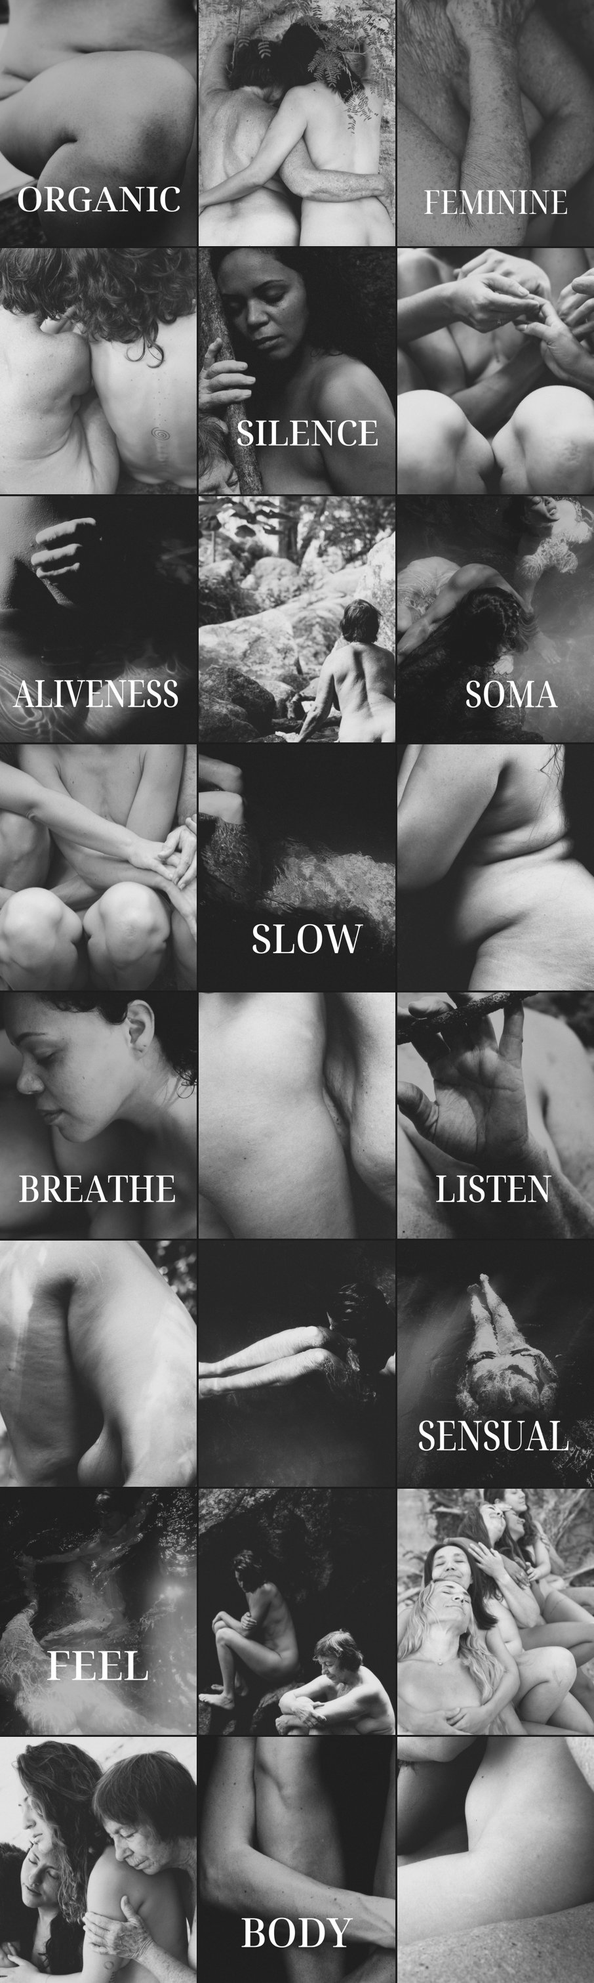
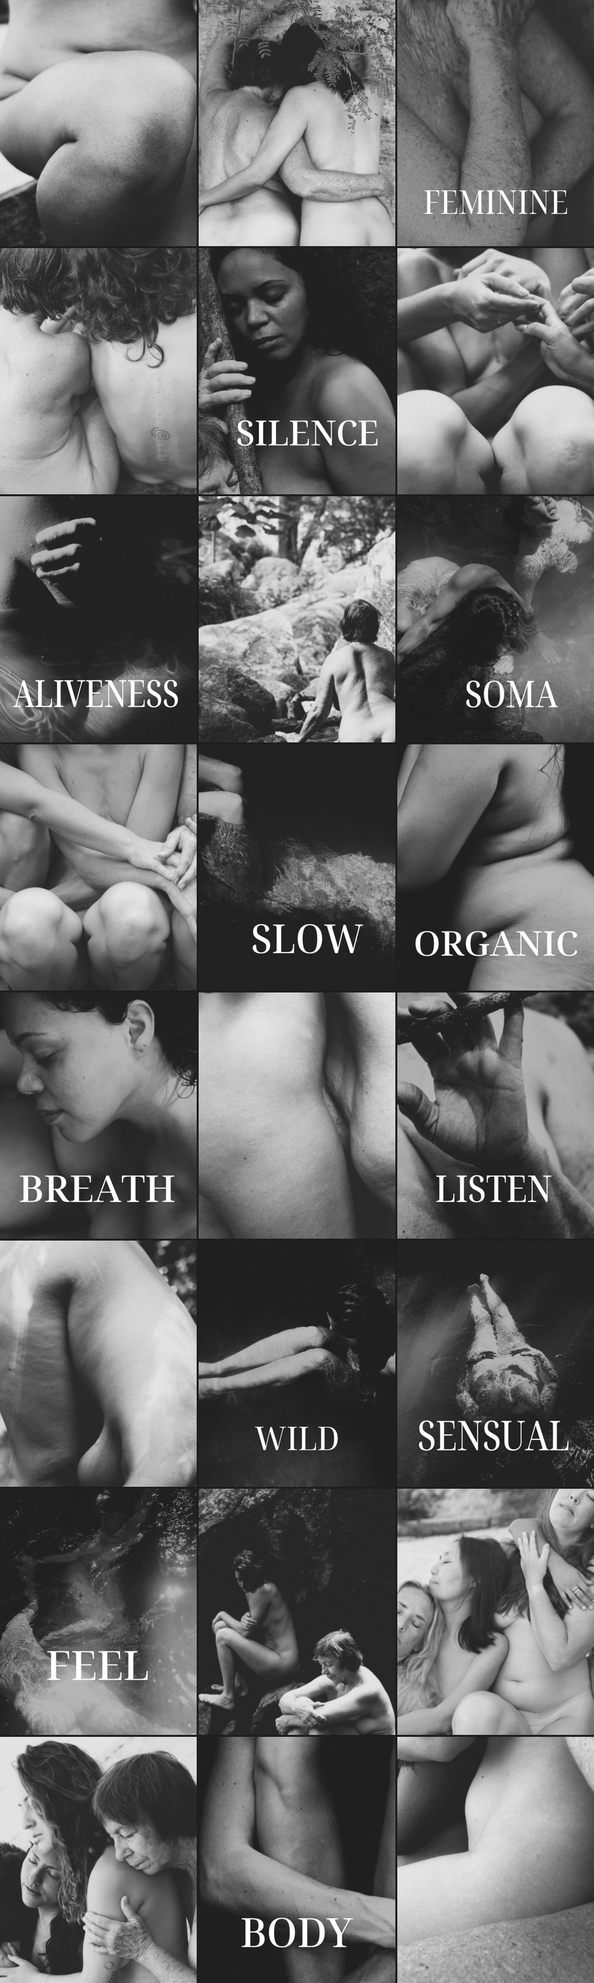
Review round 2: swaps, BREATH, WILD word, bird caption, side-angle tile 21

diff --git a/grid-restart-review/index.html b/grid-restart-review/index.html
@@ -75,7 +75,7 @@ textarea::placeholder{color:var(--muted)}
   <img src="img/grid.jpg" alt="The finished 24-image grid, 3 images across">
   <div class="txt">
     <h2>The whole grid</h2>
-    <p>Your layout, tile for tile: 11 posts carry one of your words (ORGANIC and FEMININE are the two to pin at the top), the other 13 are photos. Every caption is taken word for word from your own pages and posts.</p>
+    <p>Your layout, tile for tile: 12 posts carry one of your words (ORGANIC and FEMININE are the two to pin at the top), the other 12 are photos. Every caption is taken word for word from your own pages and posts.</p>
     <p>When you are done, press <b>Send on WhatsApp</b>, or <b>Copy verdict</b> to paste it anywhere.</p>
   </div>
 </div>
@@ -89,7 +89,7 @@ textarea::placeholder{color:var(--muted)}
 </div>
 </div>
 <script>
-const ITEMS = [{"n": 1, "src": "img/t01.jpg", "word": "ORGANIC", "cap": "The Organic Feminine Principle is the compass that guides us towards our natural embodiment, beyond the confines of the outdated programming that has infiltrated our bodies, nervous systems, and the collective female psyche.\n\nThis principle moves us beyond narrow, restrictive notions of femininity to reclaim the wild, natural tapestry that is life in a woman's body.\n\nAt its heart, the Organic Feminine Principle is about embracing our innate somatic feminine intelligence. It encourages a rekindling of connection and trust in our cyclical nature, recognizing the messages of our nervous systems, and valuing our sensations and emotions as crucial sources of guidance and information. It invites us to celebrate our sensuality as a profound, life-affirming force that connects us deeply with ourselves, our community, and the world around us.\n\nRegardless of the stage of life you are in as women, the organic feminine principle invites you to return to a natural, embodied and truthful way of living."}, {"n": 2, "src": "img/t02.jpg", "word": null, "cap": "Being free, embodied, and fully alive in our bodies as women is our birthright. But countless women around the world remain deeply oppressed, their voices silenced and their freedom denied. As women with access to greater freedoms, we hold a profound opportunity - and responsibility - to harness the liberties we have, breaking through the unconscious shackles we often don’t realize we carry. When we do this, we restore our frequency and being to their rightful, embodied, and liberated state.\n\nThis journey is not merely for our pleasure, although pleasure is essential and sacred. It is also for the women who cannot yet claim this freedom. Every step we take toward embodying our wholeness sends ripples outward, a quiet revolution of sovereignty that transcends borders and boundaries. We rise not just for ourselves, but for every woman still waiting for the chance to rise."}, {"n": 3, "src": "img/t03.jpg", "word": "FEMININE", "cap": "The Patriarchal Feminine manages herself.\nThe Organic Feminine inhabits herself.\n\nManaging myself looks like:\nholding my breath to be chosen,\nediting my truth to stay safe,\nmonitoring my body as something to control.\n\nIt’s not a flaw.\nIt’s an adaptation.\n\nInhabiting myself feels like:\narriving inside my breath,\ntrusting sensation,\nletting my yes and no come from the body.\n\nNo performance.\nNo strategy.\n\nThe shift from managing to inhabiting\nis not a mindset change\nit’s a somatic return.\n\nFrom control to presence.\nFrom survival to aliveness.\nFrom being handled\nto being home in myself."}, {"n": 4, "src": "img/t04.jpg", "word": null, "cap": "There really is no greater teacher in our lives than relationship to show us the truth.\n\nBut when we are there, in the thick of it, no matter how many years of personal work you've done... when we meet ourself in that deep, unbearable pain of vulnerability... what remains when the ideals of our perfect, conscious, integrated identity falls away?\n\nDirect, present moment relating from somatic intelligence is the ground of all relating. Beyond narratives and identity. Beyond structures and forms."}, {"n": 5, "src": "img/t05.jpg", "word": "SILENCE", "cap": "The body’s contraction when we don’t allow ourselves to reveal who we are, out of fear of rejection or of being judged as too much. So we stay quiet, calm, agreeable and nice. We swallow our words, and our bodies are left full with what is unsaid.\n\nSome days we name the grief beneath our rage.\nOther days we laugh through the awkwardness of old patterns.\nAnd sometimes, we simply breathe together in silence."}, {"n": 6, "src": "img/t06.jpg", "word": null, "cap": "As women, many of us often don't feel safe to just be ourselves. We were programmed & socialised to please others & live by unattainable standards of perfection & \"femininity\". We were taught to fixate on what we do, how we look, how successful, youthful & sexy we are, to affirm our worth."}, {"n": 7, "src": "img/t07.jpg", "word": "ALIVENESS", "cap": "You’ve been going through the motions and you’re exhausted by the distance between who you perform and who you actually are.\n\nYou long to feel alive in your body again, not just healthy, not just functional. Sensorially, genuinely alive.\n\nShadow work isn’t about fixing ourselves. It’s about remembering ourselves.\nIt’s the path from fragmentation to wholeness.\nFrom performance to presence.\nFrom numbness to feeling deeply, fully, vividly alive.\n\nWhat I’ve discovered, through fifteen years of this work, is that the body doesn’t forget. Beneath the conditioning, beneath the performance, beneath the exhaustion — the sensuous self is still there. Patient. Alive. Ready."}, {"n": 8, "src": "img/t08.jpg", "word": null, "cap": "When we make the choice to really sink into the world and wisdom of the body, we can learn the tools to be safe enough to simply feel, and we can invite our shadow back into our space with open arms.\n\nWe can lean in and submerge into our unconscious material in a way that allows the hidden, denied and exiled parts of ourselves to come back into the forefront of our expression. Rather than analysing, observing, or understanding them, we give them a tangible place to live in: inside our own skin.\n\nVery often, inside the parts that were pushed away, or that we learnt were not OK to reveal to ourselves or others, is where our real, soul-based expression comes alive.\n\nWhere our deepest calling for life, creativity, connection and purpose live."}, {"n": 9, "src": "img/t09.jpg", "word": "SOMA", "cap": "Our Western, patriarchal and colonial value systems have conditioned us to look outside of ourselves for authority, education, connection, pleasure, purpose and meaning.\n\nThis programming has exalted the mind, intellect and external orientation over the intelligence of the body and our own internal relationship with our visceral, powerful, sensual, heartful selves. We have normalised the constant and dissatisfying reaching and searching for fullness, nourishment and connection outside of our own skin.\n\nTo meet ourselves through our bodies and to live our lives in harmony with their ancient knowing, is to come into deep relationship with our innate WHOLENESS. This in itself is an act of resistance, as we subvert the cultural narrative of needing to consume more, do more and be more, and instead rest back into that which we already have and are."}, {"n": 10, "src": "img/t10.jpg", "word": null, "cap": "How can we reshape our approach to leadership, moving beyond the striving, the constant push to be better, the incessant honing of skills in the quest to become the best version of ourselves?\n\nInstead, what if we re-center our value system around leadership with the profound understanding that who we are, rather than what we do, is the true leader.\n\nBy anchoring ourselves in pleasure, we become the deeply attuned leaders who walk the paths that we inspire our communities to follow. Because we know that the way we lead mirrors the way we live."}, {"n": 11, "src": "img/t11.jpg", "word": "SLOW", "cap": "Within our somatics training, we prioritize the power of slowing down. Through this deliberate deceleration, we recalibrate our nervous system and cultivate a profound sense of bodily safety. Central to this is the practice of titration, which fine-tunes our nervous system's responses, ensuring a gentle and measured emotional journey. Where trauma can be overwhelming, titration emerges as its soothing counterbalance. More than just a technique, titration supports a broader paradigm shift, inviting a renewed approach to living, being, relating, and coaching. In contrast to our fast-paced culture, it places emphasis on time, rest, and presence in all life's facets, suggesting that slowing down is not just beneficial but essential. By embracing this philosophy as a lifestyle we start to feel ourselves, others & life in a new way- A way that feels deeply natural and connected."}, {"n": 12, "src": "img/t12.jpg", "word": null, "cap": "Although we can become aware with the conscious mind of how our psyche is operating, unless the material is felt, welcomed and breathed into, nothing will shift. Until we feel our sensations and emotions, be with them, communicate with them, and stabilise our nervous system back into a sense of safety, we will not be able to relate to and make meaning of our experience in an embodied way. When we don’t listen to the body, we continue to live in separation from its wisdom. This fracture manifests not only in our relationship with ourselves, but with others, the earth and life itself.\n\nModern-day psychological approaches such as CBT are hyper-oriented to a mind-based understanding of our psychology and trauma. But until we merge the body/mind as one function; one operating system, I believe that the path towards truly integrating our pain, pleasure and potential will be stuck in the same old loops."}, {"n": 13, "src": "img/t13.jpg", "word": "BREATHE", "cap": "Sensuality is the capacity to feel, to be present in your skin, alive to texture and temperature, awake to your own breath. And it belongs to ALL women :\n\naging women\nlarge women\ndisabled women\ntired women\ngrieving women\nunconventional women\nwomen outside beauty standards\n\nWomen at any stage of their life.\n\nThis capacity was yours before anyone told you what your body should look like. It's yours still."}, {"n": 14, "src": "img/t14.jpg", "word": null, "cap": "Questions to come back to your body:\n\nWhere is my breath and how is my breath, \n\nWhat is my body posture / expression communicating, \n\nWhat emotion is here, what images arise, what thoughts are here, what assumptions am I having right now?\n\nWhat do I feel is true, what can I reveal, even if it breaks my self image to pieces?"}, {"n": 15, "src": "img/t15.jpg", "word": "LISTEN", "cap": "What does it mean to truly listen? Not just through the ears or the intellect of the mind, but through the body itself?\n\nWhen we enter the world of somatics, we begin to cultivate a different kind of listening. We learn to attune to sensation, to impulse, to the tensions that arise, the temperatures that fluctuate, the pulsations that move through us, and the emotions that live beneath our words.\n\nWe begin to recognise that the body has its own language. One that does not always speak in thoughts, explanations or neatly formed narratives.\n\nListening through the body is not simply another skill to acquire. It is a reclamation of an intelligence we have been conditioned to disconnect from in a world that privileges the intellect over embodied knowing.\n\nWe have been taught to think our way through life, to rationalise our feelings, override our impulses and seek answers outside of ourselves, often before we have even paused to feel what is happening within us.\n\nOne of the most powerful and sovereign acts we can undertake is to reclaim our capacity to listen through the body.\n\nTo remember that knowing is not only something we think.\n\nIt is something we feel, sense and experience.\n\nAnd sometimes, the body knows long before the mind has found the words."}, {"n": 16, "src": "img/t16.jpg", "word": null, "cap": "What patterns do I keep repeating that hold me in cycles of disconnection?\n\nAm I aware of the stories I have created that keep me separate from my own power?\n\nCan I recognise the subtle ways I diminish myself? The ways I put myself down, question my worth, abandon my needs or make myself smaller than I truly am?\n\nWhat beliefs have I rehearsed so many times that I have come to mistake them for truth?\n\nAnd where am I still participating in my own disconnection, not because I consciously choose it, but because it has become so familiar that I no longer recognise it?\n\nWhat parts of myself am I ready to reclaim?\n\nAnd who might I become if I stopped relating to myself through the stories that have kept me small?"}, {"n": 17, "src": "img/t17.jpg", "word": null, "cap": "Wild.\n\nWhat does this word awaken in you?\n\nWhat feelings arise when you sit with your own Wild? Do you know her? Have you met the parts of yourself that refuse to be tamed, softened, silenced or made more palatable?\n\nHas she claimed you yet? Have you allowed her to?\n\nOr are you still subscribed to the conditioning that keeps you neatly packaged, contained and pleasing? Performing a version of femininity that is acceptable, desirable and digestible through the patriarchal gaze?\n\nWhat might emerge if you stopped trying to be the kind of woman you were taught to be?\n\nWho is the woman beneath the conditioning?\n\nAnd what would it mean to let her be truly Wild?"}, {"n": 18, "src": "img/t18.jpg", "word": "SENSUAL", "cap": "Sensuality belongs to all women.\n\nSensuality is not inherently sexual. It is not about sex, desirability or how we are perceived by another.\n\nIt is about the deeply felt experience of being alive.\n\nThe capacity to sense, to feel, to be moved by life. To experience pleasure through our senses, to inhabit the textures of our bodies, to feel the richness of our own existence.\n\nWhere have you conflated sensuality with sexuality? Where have you learned to associate your sensual nature with being sexually available, desirable or pleasing to another?\n\nAnd in doing so, where have you denied yourself your own birthright?\n\nThe right to feel deeply. To experience pleasure without it needing to lead anywhere. To belong to your body without it being for anyone else’s consumption.\n\nWhen sensuality becomes something we associate only with sexuality, we risk disconnecting from one of the most fundamental aspects of our embodied experience as women.\n\nWe forget that our sensuality exists for us.\n\nIn the warmth of sunlight against our skin. In the pleasure of movement. In the textures, tastes, sounds and sensations that remind us we are living, breathing, feeling beings.\n\nYour sensuality is not something you perform. It is something you inhabit.\n\nAnd reclaiming it is reclaiming your birthright to live a fully felt, embodied and profoundly alive life as a woman."}, {"n": 19, "src": "img/t19.jpg", "word": "FEEL", "cap": "FEEL.\n\nWhat if the whole point of being alive is to feel?\n\nTo feel the fullness of this human experience. The beauty, the grief, the longing, the pleasure, the tenderness, the discomfort. All of it.\n\nAnd yet, we are so terrified of feeling.\n\nWe block, we numb, we avoid, we distract. We build lives around keeping ourselves occupied, seeking stimulation outside of ourselves, finding endless ways to escape the very sensations that remind us we are alive.\n\nAnd somewhere along the way, we begin living a life half-lived.\n\nA life experienced from the outside in, where we are moving through the world, but the world is no longer truly touching us from within.\n\nWhat does it mean to truly feel?\n\nTo sense the continuous micro-movements of life happening inside us? The subtle shifts, the contractions, the expansions, the pulsations, the emotions that rise and fall like waves?\n\nTo allow ourselves to be touched by life rather than constantly protecting ourselves from it?\n\nThis is not about overwhelming ourselves with feeling or forcing ourselves to experience everything at once. It is about slowly cultivating the capacity to be with more of our own aliveness.\n\nTo discover that we can feel deeply without losing ourselves.\n\nThat our sensitivity is not something to overcome, but something that connects us to the extraordinary intimacy of being human.\n\nWe did not come here simply to observe life from a safe distance. We came here to be touched by it. To feel it moving through us. To be fully, profoundly alive."}, {"n": 20, "src": "img/t20.jpg", "word": null, "cap": "What would it be like if you took a moment each day to simply be?\n\nTo sit with the rocks, the water, the sound of the waves pressing against the shore. To feel the wind kissing your skin. To notice the subtle movements of life happening all around you, without needing to do anything with them.\n\nHow much of this do you give yourself?\n\nHow much space is there in your life for this kind of simplicity? For moments that ask nothing of you, where there is nowhere to get to, nothing to achieve, nothing to become?\n\nIn our constant seeking outside of ourselves, how far have we wandered from the simple beauty of being alive? From our relationship with nature, with stillness, with the quiet intimacy of the present moment?\n\nSomatics offers us a pathway back. A way of cultivating enough safety within ourselves to slow down, to soften our urgency, to feel the textures of life rather than constantly moving through them.\n\nTo remember that beauty is not always something we need to seek, create or chase.\n\nSometimes it is right here.\n\nIn the water. In the rocks. In the wind against our skin.\n\nIn the extraordinary simplicity of being alive.\n\nAnd in this moment, I find myself needing nothing else."}, {"n": 21, "src": "img/t21.jpg", "word": null, "cap": "It can feel like you’re alone in these feelings, but I want you to know that most women learned these sorts of very restrictive rules about themselves from a very young age. Our collective culture defined sensuality as the exclusive domain of the young, skinny, stereotypical model type of woman.\n\nBut this version of “woman” is a myth. It’s a fiction. This narrow definition of sensuality excludes almost every single woman on the planet.\n\nAnd the truth is - all of us human beings are worthy of a rich, delicious and nourishing connection to our sensuality, no matter your age, shape, size, or background."}, {"n": 22, "src": "img/t22.jpg", "word": null, "cap": "Now more than ever, what we need is embodied, attuned, and empathic presence.\n\nOur very essence is woven from connection - the innate desire to co-regulate, co-heal, and co-explore life's journey. Yet, many of us experienced a rupture in our earliest years, a lack of the attunement we needed as infants. This absence has contributed to a culture & life that often feels disconnected and disembodied.\n\nWe have the opportunity to change that together through somatics."}, {"n": 23, "src": "img/t23.jpg", "word": "BODY", "cap": "What happens when you begin to inhabit your body rather than objectify it?\n\nAt the heart of somatics is the practice of inhabitation. Learning to live inside the body rather than constantly managing it from the outside.\n\nSo much of our relationship with our bodies has been shaped by how we look, how we are perceived, how desirable we are, and how well we conform to aesthetic ideals.\n\nWe have learned to see ourselves through the eyes of others, to monitor, control, perfect and perform our bodies rather than actually live within them.\n\nTo begin feeling ourselves rather than constantly looking at ourselves is a profound paradigm shift.\n\nAnd yet, for many of us, this return to the body can feel deeply uncomfortable, even unsafe.\n\nWe may have spent years feeling betrayed by our bodies, overwhelmed by our emotions, disconnected from our sensations or frightened by the discomfort that lives within us.\n\nSometimes leaving the body, numbing ourselves or relating to it as an object was the very way we learned to survive.\n\nSo the invitation is not to force ourselves back in, but to slowly, gently cultivate a relationship with the body that feels safe enough to inhabit.\n\nTo begin listening rather than controlling. Feeling rather than performing. Living from within rather than constantly observing ourselves from the outside.\n\nThere is something profoundly liberating about reclaiming our bodies from the gaze of the world.\n\nAbout no longer treating the body as something we must endlessly improve in order to be worthy of inhabiting.\n\nYour body is not simply an object to be looked at, perfected or made desirable. It is the very place from which you experience being alive.\n\nAnd learning to come home to ourselves, to reclaim the parts of us that have been disconnected, objectified and abandoned, may be one of the most beautiful and profound acts of sovereignty we can undertake in this lifetime."}, {"n": 24, "src": "img/t24.jpg", "word": null, "cap": "Sensuality isn’t about being looked at, it’s about being felt.\n\nAnd, from a young age, many women learn to see themselves through someone else’s eyes. Instead of living inside the body, we monitor it: how it looks, how it’s judged, how it might be consumed.\n\nAnd woven through all of this is the quiet programming that sensuality belongs to other women\nthe younger women,\nthe thinner women,\nthe desirable women,\nthe women whose bodies fit the cultural script of femininity."}];
+const ITEMS = [{"n": 1, "src": "img/t01.jpg", "word": null, "cap": "Although we can become aware with the conscious mind of how our psyche is operating, unless the material is felt, welcomed and breathed into, nothing will shift. Until we feel our sensations and emotions, be with them, communicate with them, and stabilise our nervous system back into a sense of safety, we will not be able to relate to and make meaning of our experience in an embodied way. When we don’t listen to the body, we continue to live in separation from its wisdom. This fracture manifests not only in our relationship with ourselves, but with others, the earth and life itself.\n\nModern-day psychological approaches such as CBT are hyper-oriented to a mind-based understanding of our psychology and trauma. But until we merge the body/mind as one function; one operating system, I believe that the path towards truly integrating our pain, pleasure and potential will be stuck in the same old loops."}, {"n": 2, "src": "img/t02.jpg", "word": null, "cap": "Being free, embodied, and fully alive in our bodies as women is our birthright. But countless women around the world remain deeply oppressed, their voices silenced and their freedom denied. As women with access to greater freedoms, we hold a profound opportunity - and responsibility - to harness the liberties we have, breaking through the unconscious shackles we often don’t realize we carry. When we do this, we restore our frequency and being to their rightful, embodied, and liberated state.\n\nThis journey is not merely for our pleasure, although pleasure is essential and sacred. It is also for the women who cannot yet claim this freedom. Every step we take toward embodying our wholeness sends ripples outward, a quiet revolution of sovereignty that transcends borders and boundaries. We rise not just for ourselves, but for every woman still waiting for the chance to rise."}, {"n": 3, "src": "img/t03.jpg", "word": "FEMININE", "cap": "The Patriarchal Feminine manages herself.\nThe Organic Feminine inhabits herself.\n\nManaging myself looks like:\nholding my breath to be chosen,\nediting my truth to stay safe,\nmonitoring my body as something to control.\n\nIt’s not a flaw.\nIt’s an adaptation.\n\nInhabiting myself feels like:\narriving inside my breath,\ntrusting sensation,\nletting my yes and no come from the body.\n\nNo performance.\nNo strategy.\n\nThe shift from managing to inhabiting\nis not a mindset change\nit’s a somatic return.\n\nFrom control to presence.\nFrom survival to aliveness.\nFrom being handled\nto being home in myself."}, {"n": 4, "src": "img/t04.jpg", "word": null, "cap": "There really is no greater teacher in our lives than relationship to show us the truth.\n\nBut when we are there, in the thick of it, no matter how many years of personal work you've done... when we meet ourself in that deep, unbearable pain of vulnerability... what remains when the ideals of our perfect, conscious, integrated identity falls away?\n\nDirect, present moment relating from somatic intelligence is the ground of all relating. Beyond narratives and identity. Beyond structures and forms."}, {"n": 5, "src": "img/t05.jpg", "word": "SILENCE", "cap": "The body contracts when we don’t allow ourselves to reveal who we are, out of fear of rejection or of being judged as too much. So we stay quiet, calm, agreeable and nice. We swallow our words, and our bodies are left full with what is unsaid.\n\nSome days we name the grief beneath our rage.\nOther days we laugh through the awkwardness of old patterns.\nAnd sometimes, we simply breathe together in silence."}, {"n": 6, "src": "img/t06.jpg", "word": null, "cap": "As women, many of us often don't feel safe to just be ourselves. We were programmed & socialised to please others & live by unattainable standards of perfection & \"femininity\". We were taught to fixate on what we do, how we look, how successful, youthful & sexy we are, to affirm our worth."}, {"n": 7, "src": "img/t07.jpg", "word": "ALIVENESS", "cap": "You’ve been going through the motions and you’re exhausted by the distance between who you perform and who you actually are.\n\nYou long to feel alive in your body again, not just healthy, not just functional. Sensorially, genuinely alive.\n\nShadow work isn’t about fixing ourselves. It’s about remembering ourselves.\nIt’s the path from fragmentation to wholeness.\nFrom performance to presence.\nFrom numbness to feeling deeply, fully, vividly alive.\n\nWhat I’ve discovered, through fifteen years of this work, is that the body doesn’t forget. Beneath the conditioning, beneath the performance, beneath the exhaustion — the sensuous self is still there. Patient. Alive. Ready."}, {"n": 8, "src": "img/t08.jpg", "word": null, "cap": "When we make the choice to really sink into the world and wisdom of the body, we can learn the tools to be safe enough to simply feel, and we can invite our shadow back into our space with open arms.\n\nWe can lean in and submerge into our unconscious material in a way that allows the hidden, denied and exiled parts of ourselves to come back into the forefront of our expression. Rather than analysing, observing, or understanding them, we give them a tangible place to live in: inside our own skin.\n\nVery often, inside the parts that were pushed away, or that we learnt were not OK to reveal to ourselves or others, is where our real, soul-based expression comes alive.\n\nWhere our deepest calling for life, creativity, connection and purpose live."}, {"n": 9, "src": "img/t09.jpg", "word": "SOMA", "cap": "Our Western, patriarchal and colonial value systems have conditioned us to look outside of ourselves for authority, education, connection, pleasure, purpose and meaning.\n\nThis programming has exalted the mind, intellect and external orientation over the intelligence of the body and our own internal relationship with our visceral, powerful, sensual, heartful selves. We have normalised the constant and dissatisfying reaching and searching for fullness, nourishment and connection outside of our own skin.\n\nTo meet ourselves through our bodies and to live our lives in harmony with their ancient knowing, is to come into deep relationship with our innate WHOLENESS. This in itself is an act of resistance, as we subvert the cultural narrative of needing to consume more, do more and be more, and instead rest back into that which we already have and are."}, {"n": 10, "src": "img/t10.jpg", "word": null, "cap": "How can we reshape our approach to leadership, moving beyond the striving, the constant push to be better, the incessant honing of skills in the quest to become the best version of ourselves?\n\nInstead, what if we re-center our value system around leadership with the profound understanding that who we are, rather than what we do, is the true leader.\n\nBy anchoring ourselves in pleasure, we become the deeply attuned leaders who walk the paths that we inspire our communities to follow. Because we know that the way we lead mirrors the way we live."}, {"n": 11, "src": "img/t11.jpg", "word": "SLOW", "cap": "Within our somatics training, we prioritize the power of slowing down. Through this deliberate deceleration, we recalibrate our nervous system and cultivate a profound sense of bodily safety. Central to this is the practice of titration, which fine-tunes our nervous system's responses, ensuring a gentle and measured emotional journey. Where trauma can be overwhelming, titration emerges as its soothing counterbalance. More than just a technique, titration supports a broader paradigm shift, inviting a renewed approach to living, being, relating, and coaching. In contrast to our fast-paced culture, it places emphasis on time, rest, and presence in all life's facets, suggesting that slowing down is not just beneficial but essential. By embracing this philosophy as a lifestyle we start to feel ourselves, others & life in a new way- A way that feels deeply natural and connected."}, {"n": 12, "src": "img/t12.jpg", "word": "ORGANIC", "cap": "The Organic Feminine Principle is the compass that guides us towards our natural embodiment, beyond the confines of the outdated programming that has infiltrated our bodies, nervous systems, and the collective female psyche.\n\nThis principle moves us beyond narrow, restrictive notions of femininity to reclaim the wild, natural tapestry that is life in a woman's body.\n\nAt its heart, the Organic Feminine Principle is about embracing our innate somatic feminine intelligence. It encourages a rekindling of connection and trust in our cyclical nature, recognizing the messages of our nervous systems, and valuing our sensations and emotions as crucial sources of guidance and information. It invites us to celebrate our sensuality as a profound, life-affirming force that connects us deeply with ourselves, our community, and the world around us.\n\nRegardless of the stage of life you are in as women, the organic feminine principle invites you to return to a natural, embodied and truthful way of living."}, {"n": 13, "src": "img/t13.jpg", "word": "BREATH", "cap": "Questions to come back to your body:\n\nWhere is my breath and how is my breath, \n\nWhat is my body posture / expression communicating, \n\nWhat emotion is here, what images arise, what thoughts are here, what assumptions am I having right now?\n\nWhat do I feel is true, what can I reveal, even if it breaks my self image to pieces?"}, {"n": 14, "src": "img/t14.jpg", "word": null, "cap": "Sensuality is the capacity to feel, to be present in your skin, alive to texture and temperature, awake to your own breath. And it belongs to ALL women :\n\naging women\nlarge women\ndisabled women\ntired women\ngrieving women\nunconventional women\nwomen outside beauty standards\n\nWomen at any stage of their life.\n\nThis capacity was yours before anyone told you what your body should look like. It's yours still."}, {"n": 15, "src": "img/t15.jpg", "word": "LISTEN", "cap": "What does it mean to truly listen? Not just through the ears or the intellect of the mind, but through the body itself?\n\nWhen we enter the world of somatics, we begin to cultivate a different kind of listening. We learn to attune to sensation, to impulse, to the tensions that arise, the temperatures that fluctuate, the pulsations that move through us, and the emotions that live beneath our words.\n\nWe begin to recognise that the body has its own language. One that does not always speak in thoughts, explanations or neatly formed narratives.\n\nListening through the body is not simply another skill to acquire. It is a reclamation of an intelligence we have been conditioned to disconnect from in a world that privileges the intellect over embodied knowing.\n\nWe have been taught to think our way through life, to rationalise our feelings, override our impulses and seek answers outside of ourselves, often before we have even paused to feel what is happening within us.\n\nOne of the most powerful and sovereign acts we can undertake is to reclaim our capacity to listen through the body.\n\nTo remember that knowing is not only something we think.\n\nIt is something we feel, sense and experience.\n\nAnd sometimes, the body knows long before the mind has found the words."}, {"n": 16, "src": "img/t16.jpg", "word": null, "cap": "What patterns do I keep repeating that hold me in cycles of disconnection?\n\nAm I aware of the stories I have created that keep me separate from my own power?\n\nCan I recognise the subtle ways I diminish myself? The ways I put myself down, question my worth, abandon my needs or make myself smaller than I truly am?\n\nWhat beliefs have I rehearsed so many times that I have come to mistake them for truth?\n\nAnd where am I still participating in my own disconnection, not because I consciously choose it, but because it has become so familiar that I no longer recognise it?\n\nWhat parts of myself am I ready to reclaim?\n\nAnd who might I become if I stopped relating to myself through the stories that have kept me small?"}, {"n": 17, "src": "img/t17.jpg", "word": "WILD", "cap": "Wild.\n\nWhat does this word awaken in you?\n\nWhat feelings arise when you sit with your own Wild? Do you know her? Have you met the parts of yourself that refuse to be tamed, softened, silenced or made more palatable?\n\nHas she claimed you yet? Have you allowed her to?\n\nOr are you still subscribed to the conditioning that keeps you neatly packaged, contained and pleasing? Performing a version of femininity that is acceptable, desirable and digestible through the patriarchal gaze?\n\nWhat might emerge if you stopped trying to be the kind of woman you were taught to be?\n\nWho is the woman beneath the conditioning?\n\nAnd what would it mean to let her be truly Wild?"}, {"n": 18, "src": "img/t18.jpg", "word": "SENSUAL", "cap": "Sensuality belongs to all women.\n\nSensuality is not inherently sexual. It is not about sex, desirability or how we are perceived by another.\n\nIt is about the deeply felt experience of being alive.\n\nThe capacity to sense, to feel, to be moved by life. To experience pleasure through our senses, to inhabit the textures of our bodies, to feel the richness of our own existence.\n\nWhere have you conflated sensuality with sexuality? Where have you learned to associate your sensual nature with being sexually available, desirable or pleasing to another?\n\nAnd in doing so, where have you denied yourself your own birthright?\n\nThe right to feel deeply. To experience pleasure without it needing to lead anywhere. To belong to your body without it being for anyone else’s consumption.\n\nWhen sensuality becomes something we associate only with sexuality, we risk disconnecting from one of the most fundamental aspects of our embodied experience as women.\n\nWe forget that our sensuality exists for us.\n\nIn the warmth of sunlight against our skin. In the pleasure of movement. In the textures, tastes, sounds and sensations that remind us we are living, breathing, feeling beings.\n\nYour sensuality is not something you perform. It is something you inhabit.\n\nAnd reclaiming it is reclaiming your birthright to live a fully felt, embodied and profoundly alive life as a woman."}, {"n": 19, "src": "img/t19.jpg", "word": "FEEL", "cap": "FEEL.\n\nWhat if the whole point of being alive is to feel?\n\nTo feel the fullness of this human experience. The beauty, the grief, the longing, the pleasure, the tenderness, the discomfort. All of it.\n\nAnd yet, we are so terrified of feeling.\n\nWe block, we numb, we avoid, we distract. We build lives around keeping ourselves occupied, seeking stimulation outside of ourselves, finding endless ways to escape the very sensations that remind us we are alive.\n\nAnd somewhere along the way, we begin living a life half-lived.\n\nA life experienced from the outside in, where we are moving through the world, but the world is no longer truly touching us from within.\n\nWhat does it mean to truly feel?\n\nTo sense the continuous micro-movements of life happening inside us? The subtle shifts, the contractions, the expansions, the pulsations, the emotions that rise and fall like waves?\n\nTo allow ourselves to be touched by life rather than constantly protecting ourselves from it?\n\nThis is not about overwhelming ourselves with feeling or forcing ourselves to experience everything at once. It is about slowly cultivating the capacity to be with more of our own aliveness.\n\nTo discover that we can feel deeply without losing ourselves.\n\nThat our sensitivity is not something to overcome, but something that connects us to the extraordinary intimacy of being human.\n\nWe did not come here simply to observe life from a safe distance. We came here to be touched by it. To feel it moving through us. To be fully, profoundly alive."}, {"n": 20, "src": "img/t20.jpg", "word": null, "cap": "What would it be like if you took a moment each day to simply be?\n\nTo sit with the rocks, the water, the birds in the park, the sound of the waves pressing against the shore. To feel the wind kissing your skin. To notice the subtle movements of life happening all around you, without needing to do anything with them.\n\nHow much of this do you give yourself?\n\nHow much space is there in your life for this kind of simplicity? For moments that ask nothing of you, where there is nowhere to get to, nothing to achieve, nothing to become?\n\nIn our constant seeking outside of ourselves, how far have we wandered from the simple beauty of being alive? From our relationship with nature, with stillness, with the quiet intimacy of the present moment?\n\nSomatics offers us a pathway back. A way of cultivating enough safety within ourselves to slow down, to soften our urgency, to feel the textures of life rather than constantly moving through them.\n\nTo remember that beauty is not always something we need to seek, create or chase.\n\nSometimes it is right here.\n\nIn the water. In the rocks. In the wind against our skin.\n\nIn the extraordinary simplicity of being alive.\n\nAnd in this moment, I find myself needing nothing else."}, {"n": 21, "src": "img/t21.jpg", "word": null, "cap": "It can feel like you’re alone in these feelings, but I want you to know that most women learned these sorts of very restrictive rules about themselves from a very young age. Our collective culture defined sensuality as the exclusive domain of the young, skinny, stereotypical model type of woman.\n\nBut this version of “woman” is a myth. It’s a fiction. This narrow definition of sensuality excludes almost every single woman on the planet.\n\nAnd the truth is - all of us human beings are worthy of a rich, delicious and nourishing connection to our sensuality, no matter your age, shape, size, or background."}, {"n": 22, "src": "img/t22.jpg", "word": null, "cap": "Now more than ever, what we need is embodied, attuned, and empathic presence.\n\nOur very essence is woven from connection - the innate desire to co-regulate, co-heal, and co-explore life's journey. Yet, many of us experienced a rupture in our earliest years, a lack of the attunement we needed as infants. This absence has contributed to a culture & life that often feels disconnected and disembodied.\n\nWe have the opportunity to change that together through somatics."}, {"n": 23, "src": "img/t23.jpg", "word": "BODY", "cap": "What happens when you begin to inhabit your body rather than objectify it?\n\nAt the heart of somatics is the practice of inhabitation. Learning to live inside the body rather than constantly managing it from the outside.\n\nSo much of our relationship with our bodies has been shaped by how we look, how we are perceived, how desirable we are, and how well we conform to aesthetic ideals.\n\nWe have learned to see ourselves through the eyes of others, to monitor, control, perfect and perform our bodies rather than actually live within them.\n\nTo begin feeling ourselves rather than constantly looking at ourselves is a profound paradigm shift.\n\nAnd yet, for many of us, this return to the body can feel deeply uncomfortable, even unsafe.\n\nWe may have spent years feeling betrayed by our bodies, overwhelmed by our emotions, disconnected from our sensations or frightened by the discomfort that lives within us.\n\nSometimes leaving the body, numbing ourselves or relating to it as an object was the very way we learned to survive.\n\nSo the invitation is not to force ourselves back in, but to slowly, gently cultivate a relationship with the body that feels safe enough to inhabit.\n\nTo begin listening rather than controlling. Feeling rather than performing. Living from within rather than constantly observing ourselves from the outside.\n\nThere is something profoundly liberating about reclaiming our bodies from the gaze of the world.\n\nAbout no longer treating the body as something we must endlessly improve in order to be worthy of inhabiting.\n\nYour body is not simply an object to be looked at, perfected or made desirable. It is the very place from which you experience being alive.\n\nAnd learning to come home to ourselves, to reclaim the parts of us that have been disconnected, objectified and abandoned, may be one of the most beautiful and profound acts of sovereignty we can undertake in this lifetime."}, {"n": 24, "src": "img/t24.jpg", "word": null, "cap": "Sensuality isn’t about being looked at, it’s about being felt.\n\nAnd, from a young age, many women learn to see themselves through someone else’s eyes. Instead of living inside the body, we monitor it: how it looks, how it’s judged, how it might be consumed.\n\nAnd woven through all of this is the quiet programming that sensuality belongs to other women\nthe younger women,\nthe thinner women,\nthe desirable women,\nthe women whose bodies fit the cultural script of femininity."}];
 let fb = {}, filt = {}, dbc = null, canSave = false, general = '';
 const LS = 'sifw-grid-restart-review';
 try { const o = JSON.parse(localStorage.getItem(LS) || '{}') || {}; fb = o.fb || {}; general = o.general || ''; } catch (e) {}
